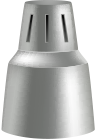
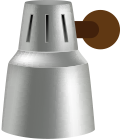
Update Light asset image and confirm layout coordinates

diff --git a/src/app/page.tsx b/src/app/page.tsx
@@ -276,7 +276,7 @@ function Section({ id, paintImage, title1, title2, catchPhrase, body }: SectionP
       </div>
 
       {/* Light */}
-      <div className="absolute h-[50px] left-1/2 top-[23px] translate-x-[-50%] w-[35px] pointer-events-none">
+      <div className="absolute h-[55px] left-[calc(50%+4px)] top-[22px] translate-x-[-50%] w-[47px] pointer-events-none">
         <Image
           src={imgLight}
           alt=""
